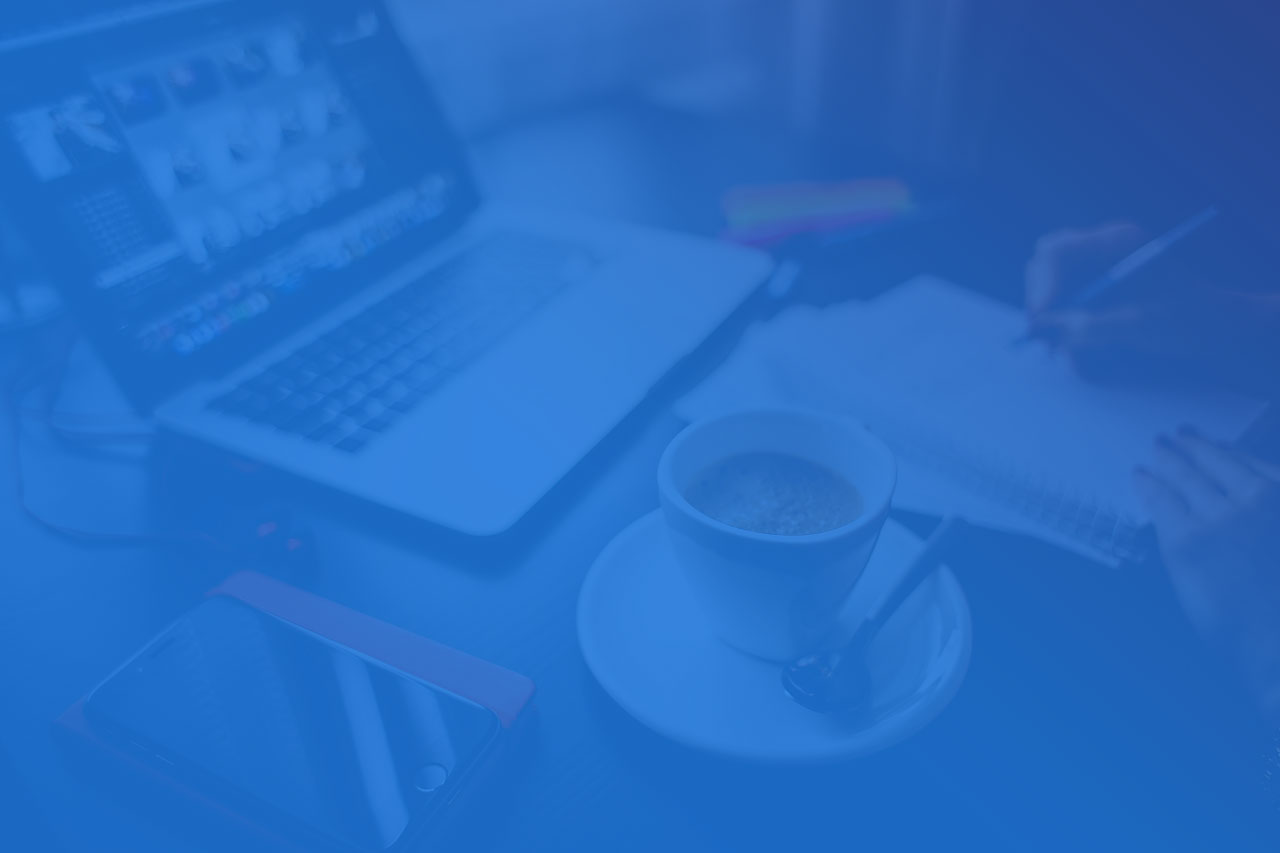
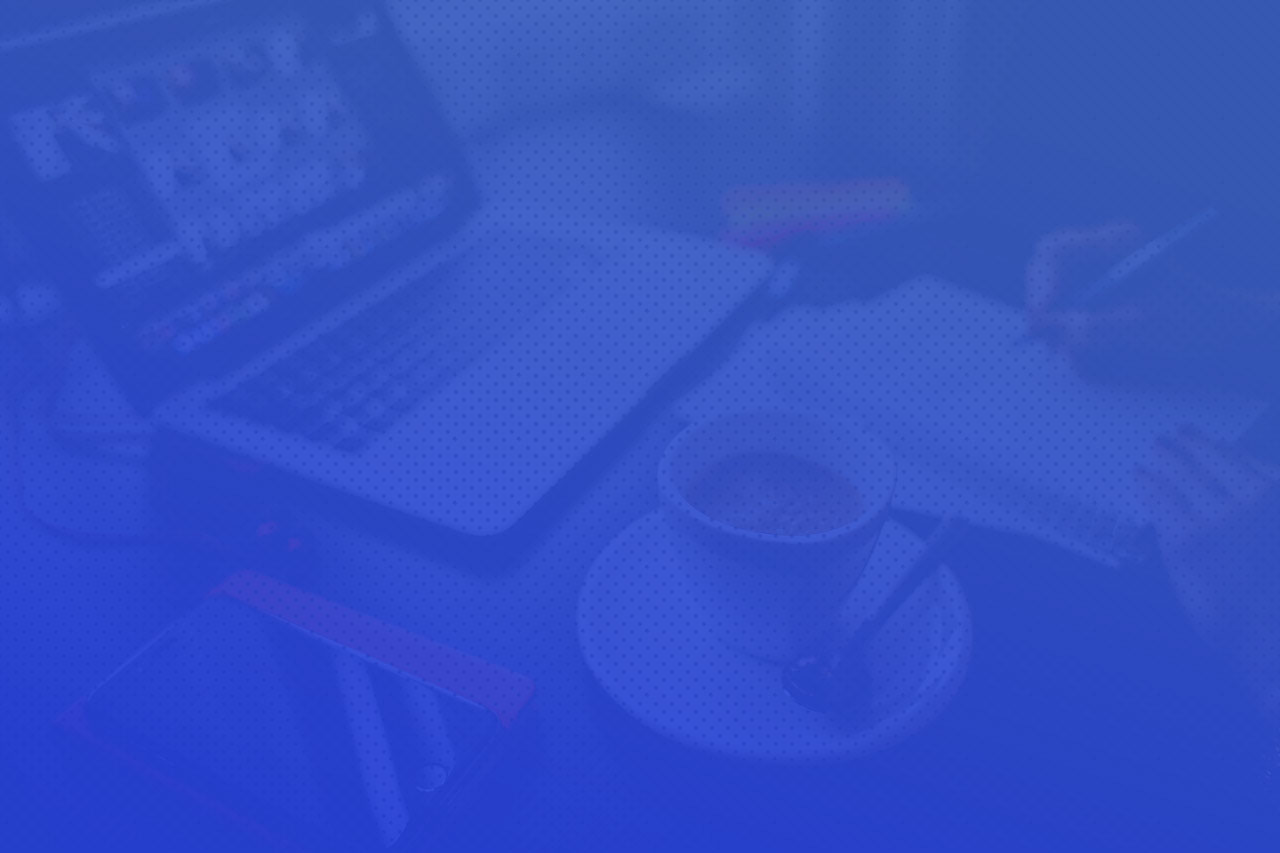
changed color scheme and images

diff --git a/components/HeroSection.vue b/components/HeroSection.vue
@@ -43,17 +43,17 @@ export default {
     valid: true,
     name: "",
     nameRules: [
-      (v) => !!v || "Name is required",
-      (v) => (v && v.length <= 10) || "Name must be less than 10 characters",
+      v => !!v || "Name is required",
+      v => (v && v.length <= 10) || "Name must be less than 10 characters"
     ],
     email: "",
     emailRules: [
-      (v) => !!v || "E-mail is required",
-      (v) => /.+@.+\..+/.test(v) || "E-mail must be valid",
+      v => !!v || "E-mail is required",
+      v => /.+@.+\..+/.test(v) || "E-mail must be valid"
     ],
     select: null,
     items: ["Item 1", "Item 2", "Item 3", "Item 4"],
-    checkbox: false,
+    checkbox: false
   }),
 
   methods: {
@@ -65,8 +65,8 @@ export default {
     },
     resetValidation() {
       this.$refs.form.resetValidation();
-    },
-  },
+    }
+  }
 };
 </script>
 <style lang="scss">
@@ -123,13 +123,24 @@ export default {
 .bt--1 {
   box-shadow: 0 5px 10px rgba(0, 0, 0, 0.378);
   padding: 25px 40px !important;
-  background: $main-dark !important;
+  background: $main-success !important;
   color: #fff !important;
+  border-radius: 4px;
+  box-shadow: 0 15px 30px 0 rgb(115 119 110 / 32%);
+  transition: 0.3s ease-in-out;
+  &:hover {
+    box-shadow: 0 5px 20px 0 rgb(115 119 110 / 20%);
+  }
 }
 .bt--2 {
   background: #fff !important;
-  color: $main-dark !important;
+  color: #212121 !important;
   box-shadow: 0 5px 10px rgba(0, 0, 0, 0.378);
   padding: 25px 40px !important;
+  border-radius: 4px;
+  transition: 0.3s ease-in-out;
+  &:hover {
+    box-shadow: 0 5px 20px 0 rgb(115 119 110 / 20%);
+  }
 }
 </style>

diff --git a/components/IntroSection.vue b/components/IntroSection.vue
@@ -17,7 +17,7 @@
               {{ box.text }}
             </v-card-text>
             <v-card-actions>
-              <v-btn text color="primary">Saznaj više</v-btn>
+              <v-btn text color="success">Saznaj više</v-btn>
             </v-card-actions>
           </v-card>
         </v-col>
@@ -35,25 +35,25 @@ export default {
           title: "Aqua Bianca voda",
           text:
             "Aqua Bianca je prirodna negazirana mineralna voda. Zahvaljujući optimalnom odnosu minerala, kalcijuma i magnezijuma i niskom sadržaju natrijuma, Aqua Bianca voda pogodna je za svakodnevnu upotrebu.",
-          img: require("~/assets/images/icon__1.png"),
+          img: require("~/assets/images/icon__1.png")
         },
         {
           id: 2,
           title: "Kimbo kafa i aparati",
           text:
             "Užitak koji oživljava sva čula: puna zlatna krema, izbalansiran okus, intenzivna aroma koja mjenja pauzu za kafu u moment užitka za svaki dan.",
-          img: require("~/assets/images/icon__2.png"),
+          img: require("~/assets/images/icon__2.png")
         },
         {
           id: 3,
           title: "Dezinfekcijska oprema",
           text:
             "Lorem ipsum dolor sit amet, consectetur adipiscing elit, sed do eiusmod tempor incididunt ut labore et dolore magna aliqua. Ut enim ad minim veniam, quis nostrud.",
-          img: require("~/assets/images/icon__3.png"),
-        },
-      ],
+          img: require("~/assets/images/icon__3.png")
+        }
+      ]
     };
-  },
+  }
 };
 </script>
 <style lang="scss">

diff --git a/components/AboutUsSection.vue b/components/AboutUsSection.vue
@@ -67,7 +67,11 @@
     <v-container class="ac__cont mb-40">
       <v-row>
         <v-col cols="8" class="mx-auto">
-          <v-alert prominent type="success" class="elevation-ac alert-cta">
+          <v-alert
+            prominent
+            type="success"
+            class="elevation-ac alert-cta elevation-20"
+          >
             <v-row align="center">
               <v-col class="grow">
                 <h2 class="text-h4 pl-5 mb-3">
@@ -111,7 +115,7 @@
             </p>
 
             <v-btn class="ma-2 ml-0 bt--1 mt-5" tile>Ponuda za vodu</v-btn>
-            <v-btn class="ma-2 bt--2 mt-5" tile outlined>Ponuda za kafu</v-btn>
+            <v-btn class="ma-2 bt--2 mt-5" outlined>Ponuda za kafu</v-btn>
           </v-col>
 
           <v-col sm="5" class="my-auto text-center">
@@ -133,14 +137,14 @@ export default {
     items: [
       { text: "Dostava u 24h", icon: "mdi-clock" },
       { text: "Zagarantovan kvalitet", icon: "mdi-account" },
-      { text: "Vrhunska podrška", icon: "mdi-flag" },
-    ],
-  }),
+      { text: "Vrhunska podrška", icon: "mdi-flag" }
+    ]
+  })
 };
 </script>
 <style lang="scss">
 .alert-cta {
-  background: url("~assets/images/cta-1.jpg") 50% 80% no-repeat;
+  background: url("~assets/images/cta-2.jpg") 50% 80% no-repeat;
   background-size: cover;
 }
 .about__us--section {

diff --git a/components/AppNavigation.vue b/components/AppNavigation.vue
@@ -86,25 +86,26 @@ export default {
         {
           icon: "mdi-apps",
           title: "Welcome",
-          to: "/",
+          to: "/"
         },
         {
           icon: "mdi-chart-bubble",
           title: "Inspire",
-          to: "/inspire",
-        },
+          to: "/inspire"
+        }
       ],
-      title: "Corto d.o.o",
+      title: "Corto d.o.o"
     };
   },
+
   computed: {
     company() {
       return this.$store.state.company;
-    },
+    }
   },
   mounted() {
-    this.$nextTick(function () {
-      window.addEventListener("scroll", function () {
+    this.$nextTick(function() {
+      window.addEventListener("scroll", function() {
         var navbar = document.getElementById("nav");
         var topbar = document.getElementById("topbar");
         var nav_classes = navbar.classList;
@@ -123,7 +124,7 @@ export default {
         }
       });
     });
-  },
+  }
 };
 </script>
 <style lang="scss">

diff --git a/layouts/default.vue b/layouts/default.vue
@@ -90,4 +90,11 @@ p.lead {
 .mb-40 {
   margin-bottom: 40px !important;
 }
+.v-card__actions {
+  align-items: center;
+  display: flex;
+  padding: 8px;
+  position: absolute;
+  bottom: 20px;
+}
 </style>

diff --git a/assets/scss/colors.scss b/assets/scss/colors.scss
@@ -1,1 +1,2 @@
 $main-dark: #365abd;
+$main-success: #8BC34A;
